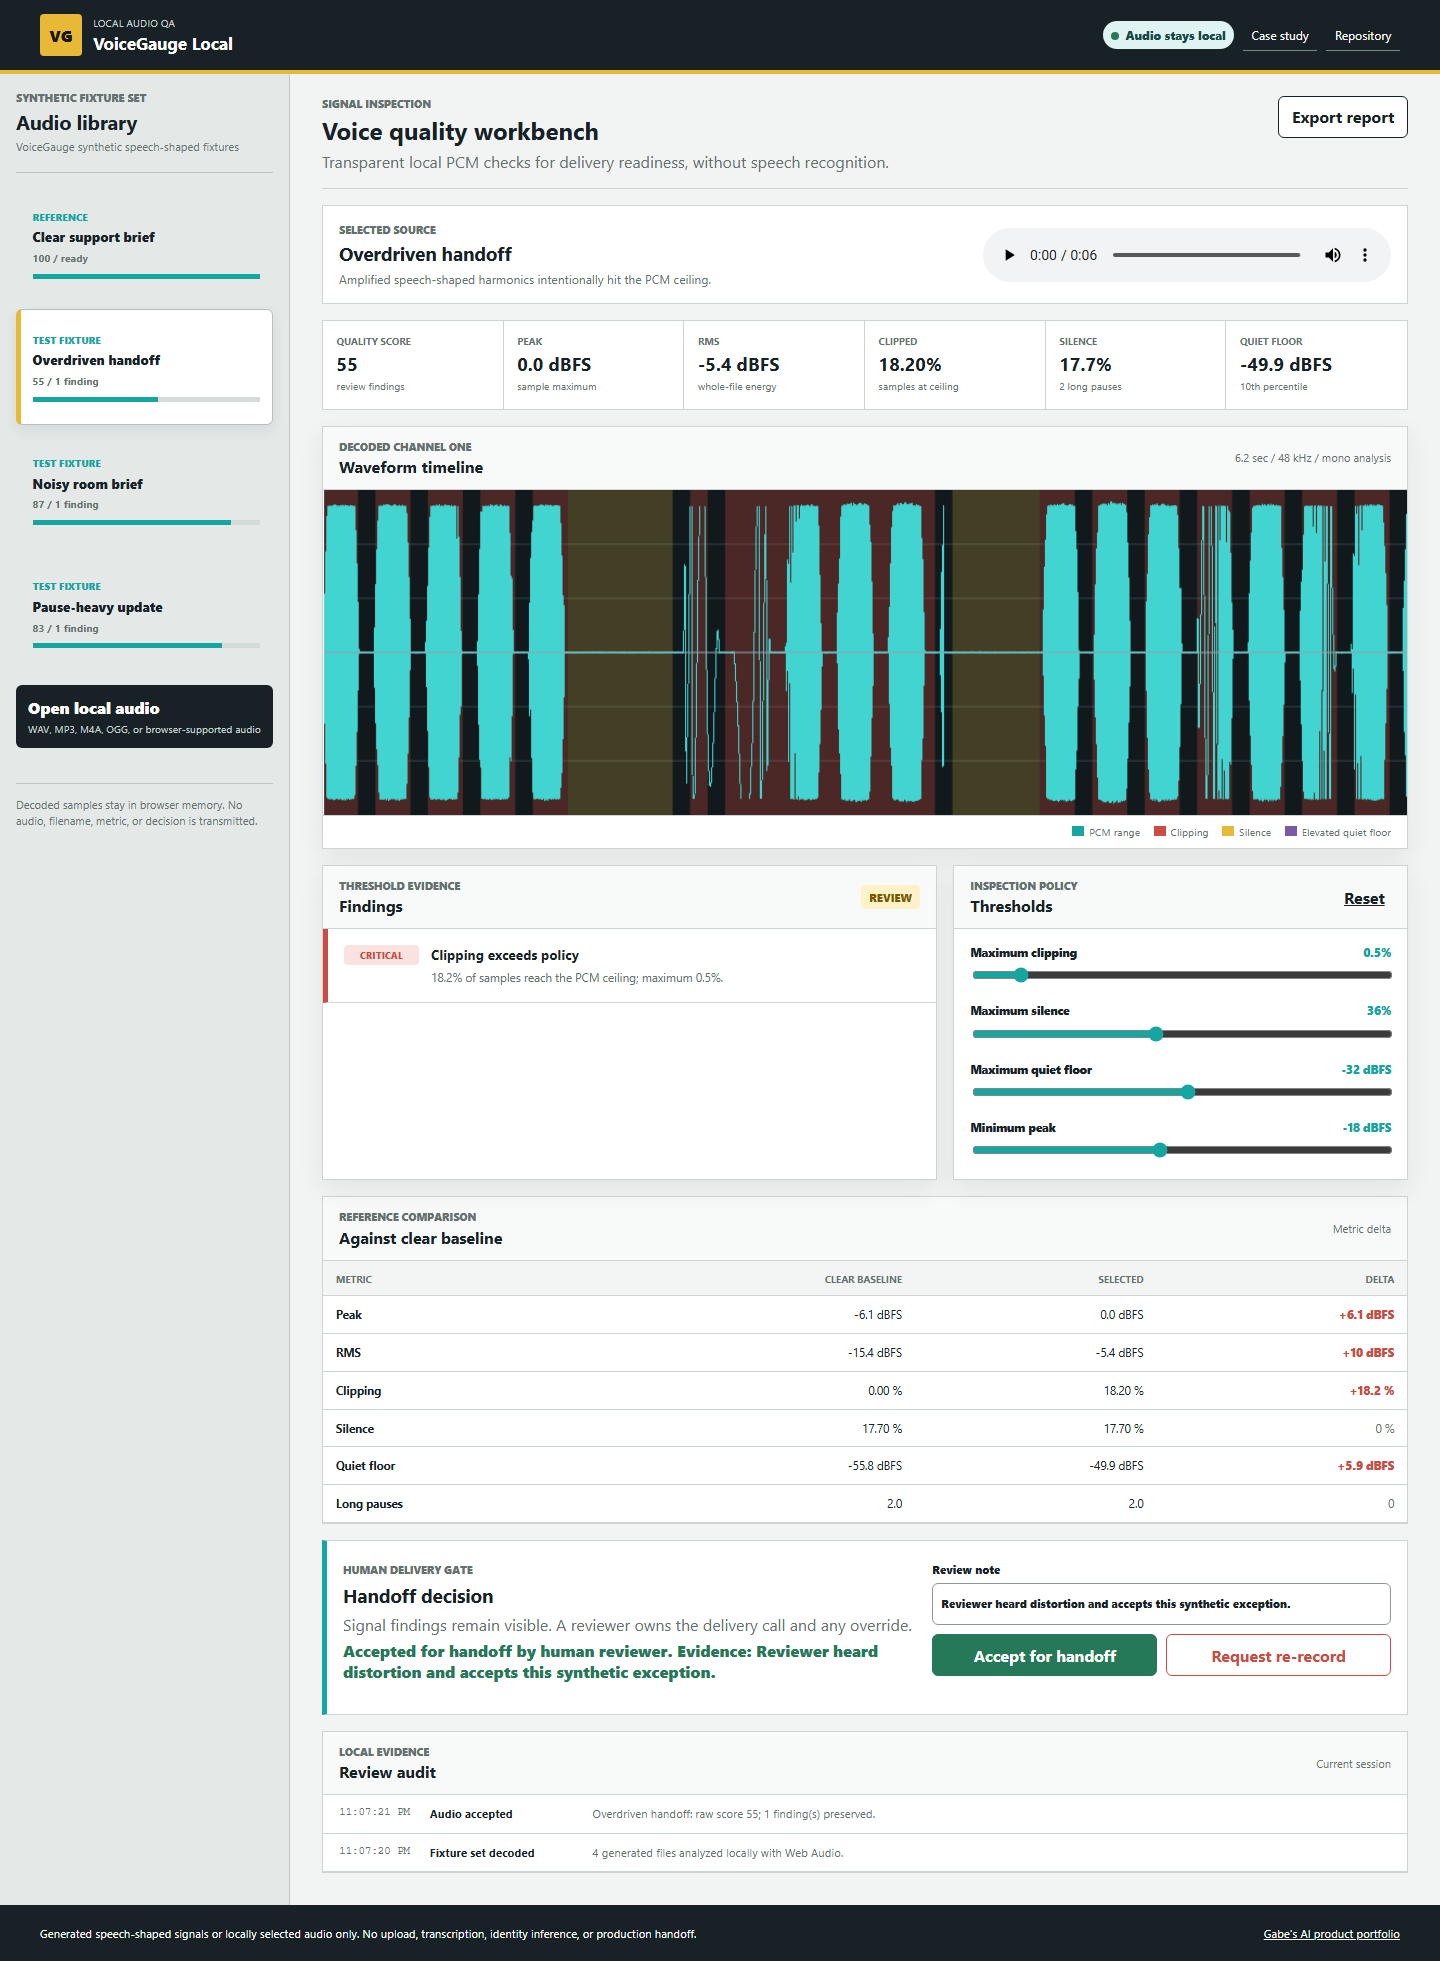
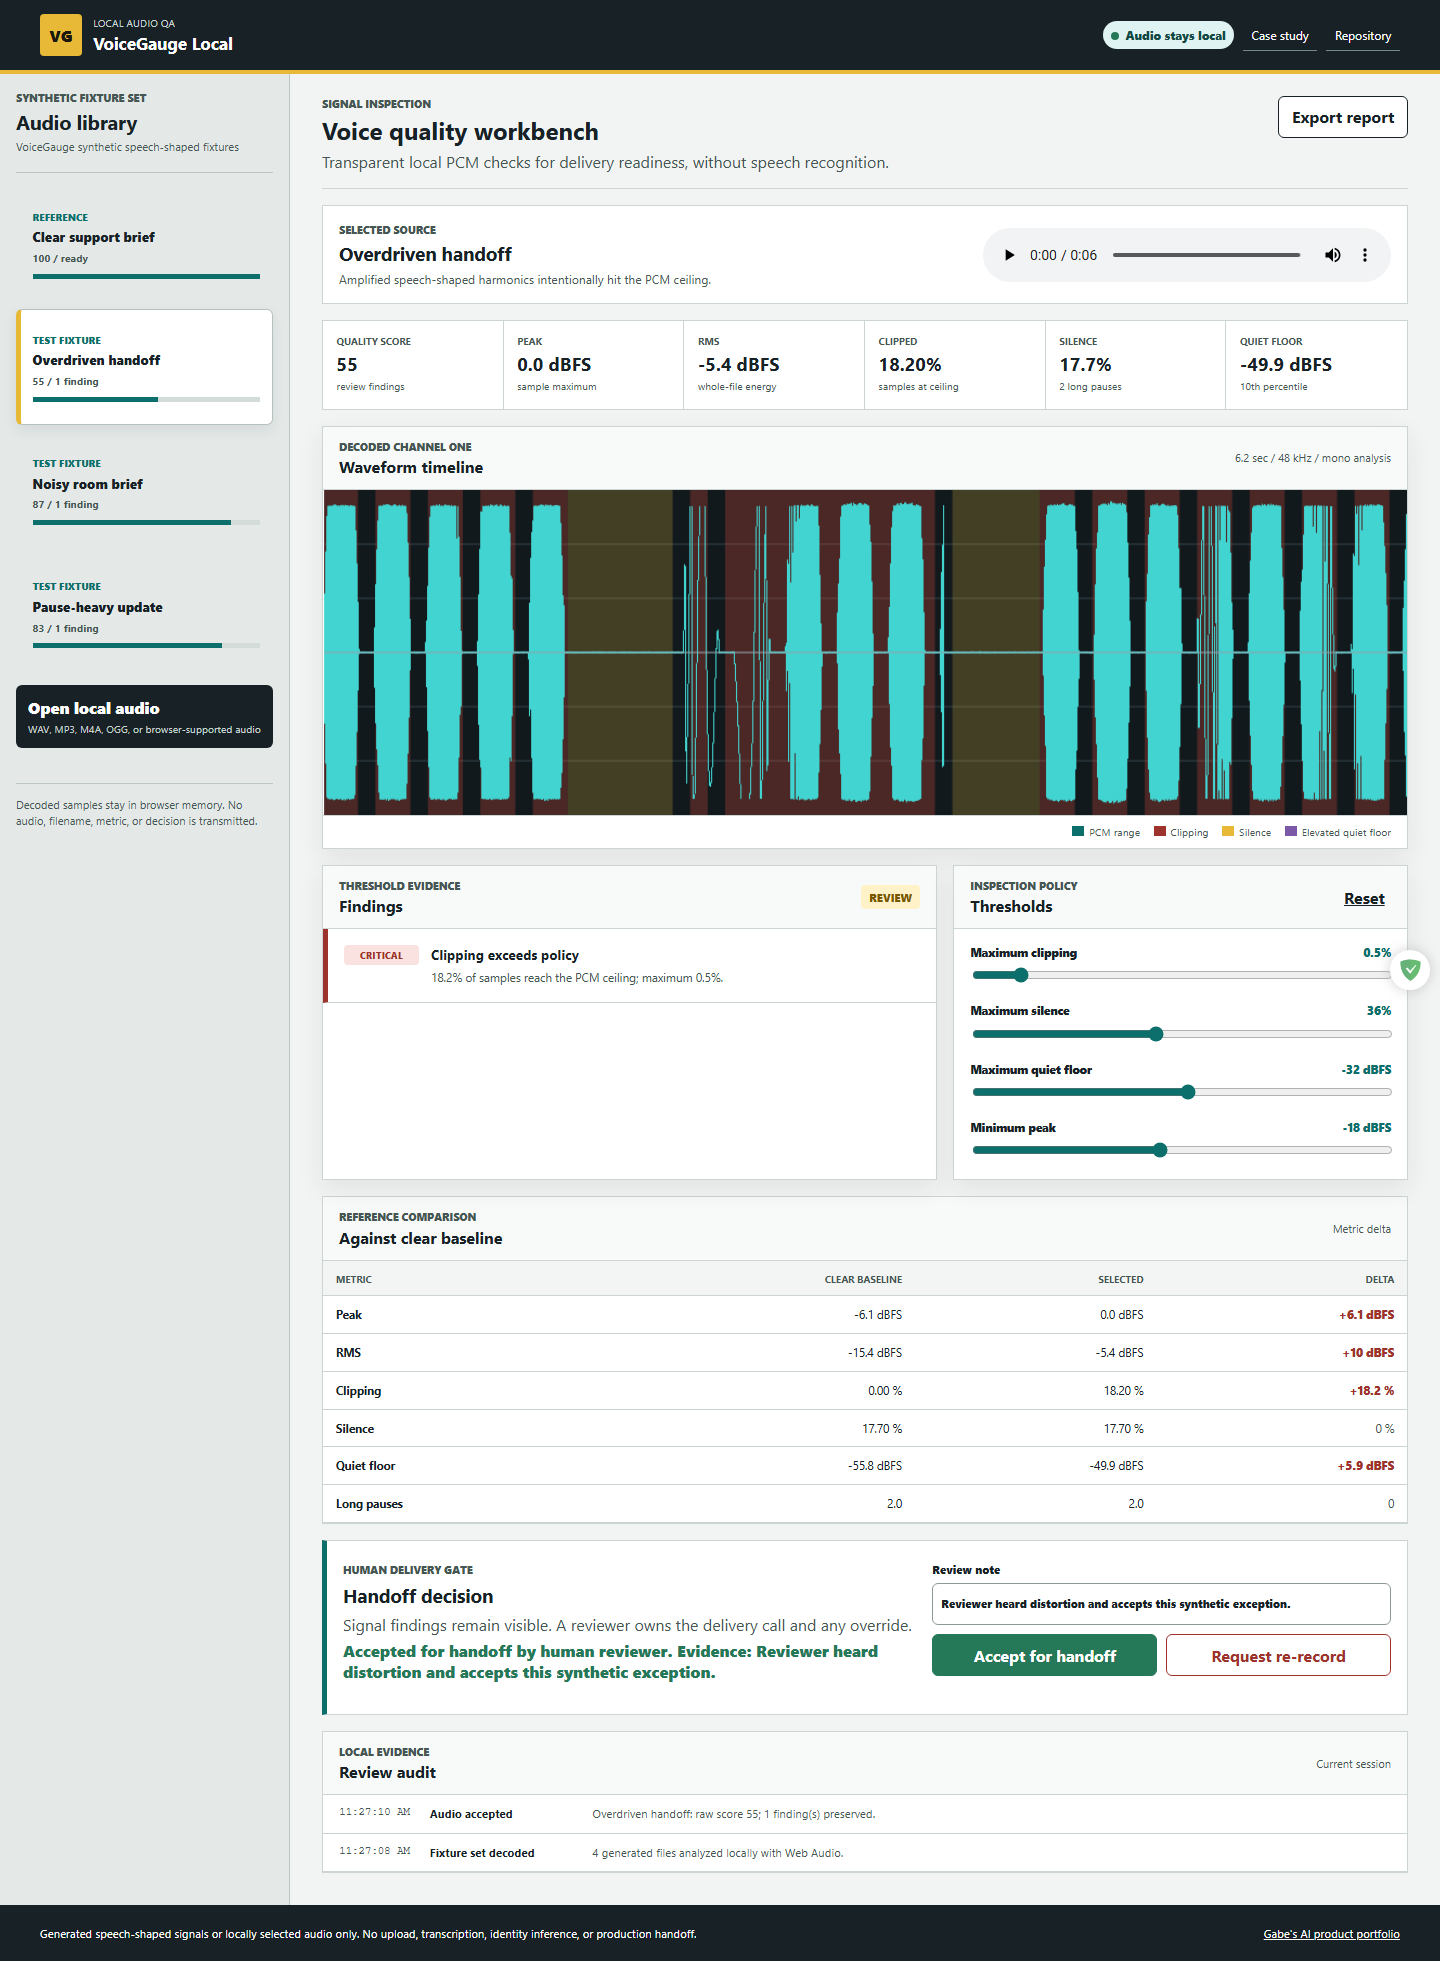
fix: improve audio workbench accessibility

diff --git a/assets/app.js b/assets/app.js
@@ -45,7 +45,7 @@ function shell() {
         <section class="findings-section" aria-labelledby="findings-heading"><div class="panel-heading"><div><p class="eyebrow">Threshold evidence</p><h3 id="findings-heading">Findings</h3></div><span id="readiness-status" class="status"></span></div><div id="findings-list" class="findings-list"></div></section>
         <section class="policy-section" aria-labelledby="policy-heading"><div class="panel-heading"><div><p class="eyebrow">Inspection policy</p><h3 id="policy-heading">Thresholds</h3></div><button id="reset-policy" class="text-button" type="button">Reset</button></div><div id="policy-controls" class="policy-controls"></div></section>
       </div>
-      <section class="comparison-section" aria-labelledby="comparison-heading"><div class="panel-heading"><div><p class="eyebrow">Reference comparison</p><h3 id="comparison-heading">Against clear baseline</h3></div><span>Metric delta</span></div><div id="comparison-table" class="table-wrap"></div></section>
+      <section class="comparison-section" aria-labelledby="comparison-heading"><div class="panel-heading"><div><p class="eyebrow">Reference comparison</p><h3 id="comparison-heading">Against clear baseline</h3></div><span>Metric delta</span></div><div id="comparison-table" class="table-wrap" tabindex="0" aria-label="Reference comparison table"></div></section>
       <section class="decision-section" aria-labelledby="decision-heading"><div><p class="eyebrow">Human delivery gate</p><h3 id="decision-heading">Handoff decision</h3><p>Signal findings remain visible. A reviewer owns the delivery call and any override.</p><p id="decision-summary" class="decision-summary">No decision recorded.</p></div><div class="decision-form"><label for="review-note">Review note<input id="review-note" type="text" maxlength="180" placeholder="Evidence for the handoff decision"></label><div><button id="accept-audio" type="button">Accept for handoff</button><button id="request-rerecord" class="return" type="button">Request re-record</button></div><p id="decision-error" role="alert"></p></div></section>
       <section class="audit-section" aria-labelledby="audit-heading"><div class="panel-heading"><div><p class="eyebrow">Local evidence</p><h3 id="audit-heading">Review audit</h3></div><span>Current session</span></div><ol id="audit-list"></ol></section>
     </section>

diff --git a/assets/styles.css b/assets/styles.css
@@ -1,4 +1,4 @@
-:root{--ink:#172126;--ink2:#26343a;--paper:#f2f4f3;--surface:#fff;--rail:#e4e9e8;--line:#ccd5d4;--muted:#64716f;--cyan:#16a6a2;--cyan-soft:#dff4f2;--yellow:#e8b936;--yellow-soft:#fff2c9;--red:#c94d43;--red-soft:#f9e2df;--violet:#7a5aa6;--violet-soft:#eee7f6;--green:#257858;--green-soft:#dff0e8;--shadow:0 9px 24px rgba(23,33,38,.08)}
+:root{--ink:#172126;--ink2:#26343a;--paper:#f2f4f3;--surface:#fff;--rail:#e4e9e8;--line:#ccd5d4;--muted:#465653;--cyan:#0c6f6b;--cyan-soft:#dff4f2;--yellow:#e8b936;--yellow-soft:#fff2c9;--red:#9e332d;--red-soft:#f9e2df;--violet:#7a5aa6;--violet-soft:#eee7f6;--green:#257858;--green-soft:#dff0e8;--shadow:0 9px 24px rgba(23,33,38,.08)}
 *{box-sizing:border-box;letter-spacing:0}html{color-scheme:light}body{margin:0;background:var(--paper);color:var(--ink);font-family:Inter,ui-sans-serif,system-ui,-apple-system,BlinkMacSystemFont,"Segoe UI",sans-serif}button,input,select,textarea{font:inherit;color:inherit}button,a,input,select,textarea{border-radius:6px}a{color:inherit}button{min-height:42px;border:1px solid var(--ink);background:var(--ink);color:#fff;padding:.55rem .8rem;font-weight:780;cursor:pointer}button:hover{background:var(--ink2)}button:focus-visible,a:focus-visible,input:focus-visible,select:focus-visible,textarea:focus-visible,canvas:focus-visible{outline:3px solid var(--yellow);outline-offset:2px}.skip-link{position:fixed;top:.5rem;left:.5rem;z-index:20;transform:translateY(-150%);background:#fff;border:2px solid var(--ink);padding:.65rem .85rem;font-weight:850}.skip-link:focus{transform:translateY(0)}.eyebrow{margin:0;color:var(--muted);font-size:.67rem;font-weight:880;text-transform:uppercase}.app-header{min-height:74px;display:flex;align-items:center;justify-content:space-between;gap:1rem;padding:.8rem clamp(1rem,3vw,2.5rem);background:var(--ink);color:#fff;border-bottom:4px solid var(--yellow)}.brand{display:flex;align-items:center;gap:.7rem;text-decoration:none}.brand-mark{width:42px;height:42px;display:grid;place-items:center;background:var(--yellow);color:#1a180d;border-radius:4px;font-weight:950}.brand small,.brand strong{display:block}.brand small{color:#c6d4d1;font-size:.65rem;text-transform:uppercase}.brand strong{margin-top:.12rem;font-size:1.06rem}.header-links{display:flex;align-items:center;justify-content:flex-end;flex-wrap:wrap;gap:.55rem;font-size:.75rem}.header-links a{padding:.44rem .55rem;text-decoration:none;border-bottom:1px solid #748a88;border-radius:0}.mode-badge{padding:.36rem .52rem;background:var(--cyan-soft);color:#154945;border-radius:999px;font-weight:850}.mode-badge:before{content:"";display:inline-block;width:8px;height:8px;margin-right:.38rem;border-radius:50%;background:var(--green)}#workspace{min-height:calc(100vh - 130px)}.startup{max-width:650px;margin:12vh auto;padding:2rem}.startup h1{margin:.3rem 0;font-size:1.9rem}.startup.error{background:#fff;border-left:5px solid var(--red);box-shadow:var(--shadow)}.loader{height:7px;margin-top:1.3rem;overflow:hidden;background:var(--line)}.loader span{display:block;width:38%;height:100%;background:var(--yellow);animation:load .9s ease-in-out infinite alternate}@keyframes load{from{transform:translateX(-25%)}to{transform:translateX(190%)}}
 .studio-shell{display:grid;grid-template-columns:290px minmax(0,1fr);min-height:calc(100vh - 130px)}.sample-rail{min-width:0;padding:1rem;background:var(--rail);border-right:1px solid #bbc6c4}.rail-heading{padding-bottom:.85rem;border-bottom:1px solid #bcc6c4}.rail-heading h1{margin:.25rem 0;font-size:1.22rem}.rail-heading p:last-child{margin:.25rem 0;color:var(--muted);font-size:.7rem}.sample-list{display:grid;gap:.45rem;padding:.85rem 0}.sample-button{display:block;min-height:116px;padding:.72rem;text-align:left;background:transparent;color:var(--ink);border:1px solid transparent;border-left:5px solid transparent}.sample-button:hover{background:#f6f9f8}.sample-button[aria-pressed=true]{background:#fff;border-color:#b6c1bf;border-left-color:var(--yellow);box-shadow:0 5px 13px rgba(23,33,38,.08)}.sample-button span,.sample-button strong,.sample-button small,.score-bar{display:block}.sample-button span{color:var(--cyan);font-size:.62rem;font-weight:880;text-transform:uppercase}.sample-button strong{margin:.36rem 0;font-size:.82rem}.sample-button small{color:var(--muted);font-size:.65rem}.score-bar{height:5px;margin-top:.55rem;overflow:hidden;background:#d4dcda;border-radius:0}.score-bar b{display:block;height:100%;background:var(--cyan)}.import-control{display:block;padding:.75rem;background:var(--ink);color:#fff;cursor:pointer;border-radius:6px}.import-control span,.import-control small{display:block}.import-control span{font-weight:820}.import-control small{margin-top:.2rem;color:#c6d2cf;font-size:.64rem}#audio-import{position:absolute;width:1px;height:1px;clip:rect(0,0,0,0)}.import-error{min-height:1.1rem;margin:.35rem 0;color:var(--red);font-size:.7rem}.privacy-note{margin:.75rem 0 0;padding-top:.8rem;border-top:1px solid #bcc6c4;color:var(--muted);font-size:.69rem;line-height:1.45}
 .workbench{min-width:0;padding:1.35rem clamp(1rem,2.5vw,2rem) 2rem}.workbench-heading{display:flex;align-items:flex-start;justify-content:space-between;gap:1rem;padding-bottom:1rem;border-bottom:1px solid var(--line)}.workbench-heading h2{margin:.2rem 0;font-size:1.5rem}.workbench-heading p:last-child{margin:.35rem 0 0;color:var(--muted)}button.secondary{background:#fff;color:var(--ink)}button.secondary:hover{background:var(--cyan-soft)}.source-strip{display:grid;grid-template-columns:minmax(0,1fr) minmax(280px,.65fr);align-items:center;gap:1rem;margin:1rem 0;padding:1rem;background:#fff;border:1px solid var(--line)}.source-strip h3{margin:.22rem 0}.source-strip p:last-child{margin:.3rem 0 0;color:var(--muted);font-size:.76rem}.source-strip audio{width:100%}.metric-strip{display:grid;grid-template-columns:repeat(6,1fr);margin-bottom:1rem;background:#fff;border:1px solid var(--line)}.metric-strip>div{min-height:88px;padding:.85rem;border-right:1px solid var(--line)}.metric-strip>div:last-child{border-right:0}.metric-strip span,.metric-strip strong,.metric-strip small{display:block}.metric-strip span{color:var(--muted);font-size:.61rem;font-weight:780;text-transform:uppercase}.metric-strip strong{margin:.22rem 0;font-size:1.15rem;overflow-wrap:anywhere}.metric-strip small{color:var(--muted);font-size:.64rem}.waveform-section,.findings-section,.policy-section,.comparison-section,.decision-section,.audit-section{background:#fff;border:1px solid var(--line);box-shadow:var(--shadow)}.panel-heading{min-height:62px;display:flex;align-items:center;justify-content:space-between;gap:1rem;padding:.75rem 1rem;border-bottom:1px solid var(--line);background:#f8f9f9}.panel-heading h3{margin:.15rem 0 0;font-size:1rem}.panel-heading>span{color:var(--muted);font-size:.69rem}.waveform-section canvas{display:block;width:100%;height:auto;aspect-ratio:1000/300;background:#11191d}.waveform-legend{display:flex;justify-content:flex-end;flex-wrap:wrap;gap:.85rem;padding:.55rem 1rem;border-top:1px solid var(--line);color:var(--muted);font-size:.65rem}.waveform-legend i{display:inline-block;width:12px;height:10px;margin-right:.3rem}.waveform-legend i.signal{background:var(--cyan)}.waveform-legend i.clipping{background:var(--red)}.waveform-legend i.silence{background:var(--yellow)}.waveform-legend i.noise{background:var(--violet)}.analysis-grid{display:grid;grid-template-columns:minmax(0,1.15fr) minmax(330px,.85fr);gap:1rem;margin-top:1rem}.status{padding:.28rem .5rem;border-radius:4px;font-size:.63rem;font-weight:880;text-transform:uppercase}.status.ready{background:var(--green-soft);color:var(--green)}.status.review{background:var(--yellow-soft);color:#795700}.findings-list{min-height:250px}.finding{display:grid;grid-template-columns:75px minmax(0,1fr);gap:.75rem;padding:1rem;border-bottom:1px solid var(--line);border-left:5px solid var(--yellow)}.finding.critical{border-left-color:var(--red)}.finding>span{align-self:start;padding:.25rem .38rem;background:var(--yellow-soft);color:#735200;border-radius:4px;font-size:.59rem;font-weight:880;text-align:center;text-transform:uppercase}.finding.critical>span{background:var(--red-soft);color:var(--red)}.finding h4{margin:0;font-size:.84rem}.finding p{margin:.35rem 0 0;color:var(--muted);font-size:.73rem;line-height:1.45}.ready-state{padding:1.2rem;border-left:5px solid var(--green)}.ready-state p{margin:.35rem 0;color:var(--muted)}button.text-button{min-height:auto;padding:.25rem .4rem;background:transparent;color:var(--ink);border:0;text-decoration:underline}.policy-controls{display:grid;gap:1rem;padding:1rem}.policy-controls label>span{display:flex;justify-content:space-between;gap:1rem;font-size:.72rem;font-weight:820}.policy-controls output{color:var(--cyan)}.policy-controls input{width:100%;margin-top:.45rem;accent-color:var(--cyan)}.comparison-section,.decision-section,.audit-section{margin-top:1rem;box-shadow:none}.table-wrap{overflow:auto}table{width:100%;border-collapse:collapse;min-width:620px}th,td{padding:.68rem .8rem;border-bottom:1px solid var(--line);text-align:right;font-size:.72rem}th:first-child,td:first-child{text-align:left}thead th{background:#f3f5f4;color:var(--muted);font-size:.61rem;text-transform:uppercase}.up{color:var(--red);font-weight:800}.down{color:var(--green);font-weight:800}.neutral{color:var(--muted)}.decision-section{display:grid;grid-template-columns:minmax(0,1fr) minmax(360px,.8fr);gap:1rem;padding:1rem;border-left:5px solid var(--cyan)}.decision-section h3{margin:.2rem 0}.decision-section p{margin:.35rem 0;color:var(--muted)}.decision-summary{font-weight:800!important;color:var(--ink)!important}.decision-summary.accepted{color:var(--green)!important}.decision-summary.rerecord{color:var(--red)!important}.decision-form label{font-size:.7rem;font-weight:820}.decision-form input{width:100%;min-height:42px;margin-top:.3rem;border:1px solid #8e9997;padding:.5rem}.decision-form>div{display:grid;grid-template-columns:1fr 1fr;gap:.55rem;margin-top:.6rem}.decision-form button:first-child{background:var(--green);border-color:var(--green)}.decision-form button.return{background:#fff;color:var(--red);border-color:var(--red)}#decision-error{min-height:1rem;margin:.35rem 0 0;color:var(--red);font-size:.68rem}.audit-section ol{margin:0;padding:0;list-style:none}.audit-section li{display:grid;grid-template-columns:78px 150px minmax(0,1fr);gap:.8rem;padding:.7rem 1rem;border-bottom:1px solid var(--line);font-size:.71rem}.audit-section time{color:var(--muted);font:.67rem ui-monospace,monospace}.audit-section span{color:var(--muted)}footer{min-height:56px;display:flex;align-items:center;justify-content:space-between;gap:1rem;padding:.7rem clamp(1rem,3vw,2.5rem);background:var(--ink);color:#fff;font-size:.71rem}footer p{margin:0}

diff --git a/docs/VALIDATION.md b/docs/VALIDATION.md
@@ -38,3 +38,11 @@ Status: passed on 2026-07-17.
 ## Commit Identity
 
 All commits use `Gabe Baires <[email redacted]>`.
+
+## v1.0.1 hardening
+
+Validated locally on July 18, 2026.
+
+- Increased secondary and status contrast and added keyboard focus plus an accessible label to the comparison table.
+- Repository validator, audio-engine tests, generated-fixture checks, and local browser workflow passed.
+- Local axe-core audit passed at desktop and mobile viewports with zero violations; the same audit is required against the deployed patch before release publication.

diff --git a/docs/RELEASE_NOTES.md b/docs/RELEASE_NOTES.md
@@ -1,5 +1,11 @@
 # Release Notes
 
+## v1.0.1 - Accessibility hardening
+
+- Increased contrast for secondary, accent, and failure text across the audio QA workbench.
+- Made the horizontally scrollable reference comparison table keyboard focusable and labeled.
+- Preserved Web Audio analysis, waveform, threshold, review, and export workflows.
+
 ## v1.0.0 - Local Audio QA Workbench
 
 - Added four deterministic speech-shaped WAV fixtures: clear, clipped, noisy, and pause-heavy.

diff --git a/README.md b/README.md
@@ -2,7 +2,7 @@
 
 VoiceGauge Local is a privacy-first browser audio QA workbench. It decodes actual audio with the Web Audio API, calculates transparent PCM metrics, maps clipping/silence/noise findings onto a Canvas waveform, compares a selected source with a clear baseline, and keeps the handoff decision with a human reviewer.
 
-[Live demo](https://jubjub-cpu.github.io/voicegauge-local/) | [Portfolio](https://jubjub-cpu.github.io/gabe-ai-product-portfolio/) | [v1.0.0 release](https://github.com/jubjub-cpu/voicegauge-local/releases/tag/v1.0.0)
+[Live demo](https://jubjub-cpu.github.io/voicegauge-local/) | [Portfolio](https://jubjub-cpu.github.io/gabe-ai-product-portfolio/) | [v1.0.1 release](https://github.com/jubjub-cpu/voicegauge-local/releases/tag/v1.0.1)
 
 ## Business Problem
 